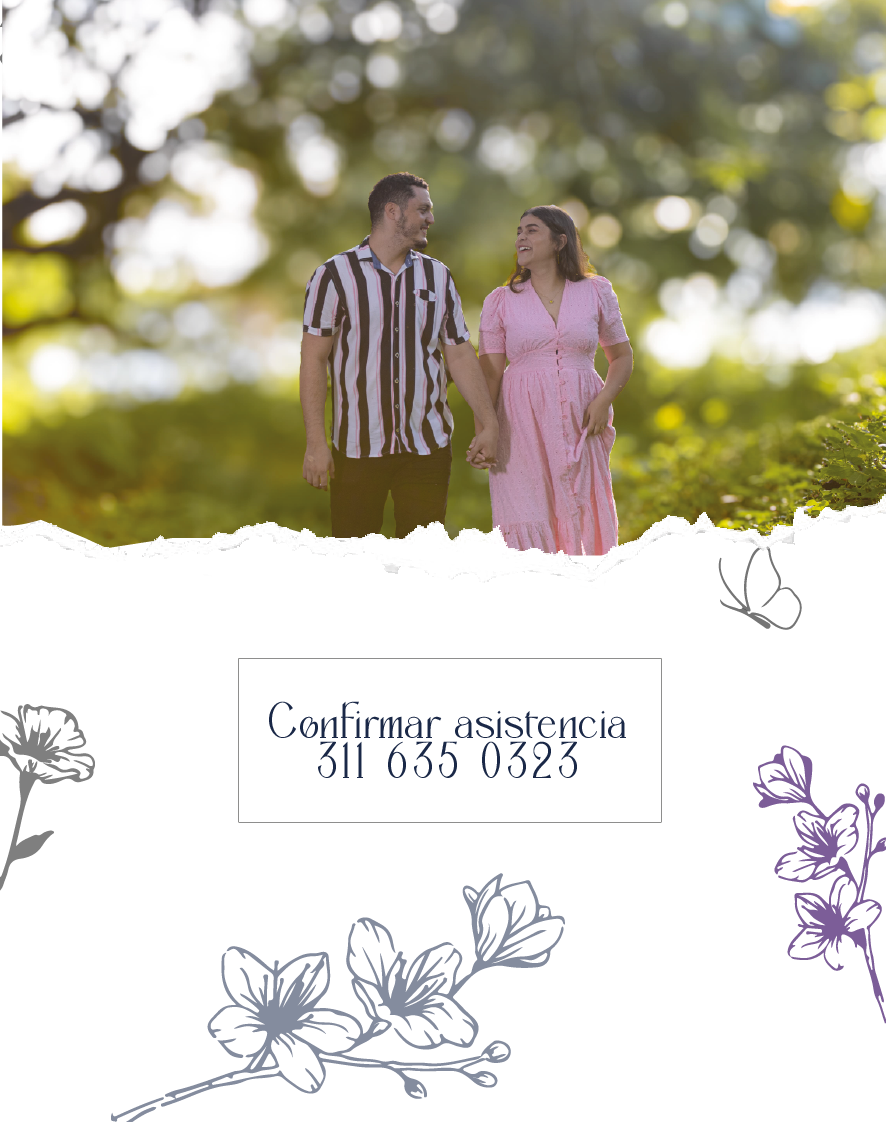
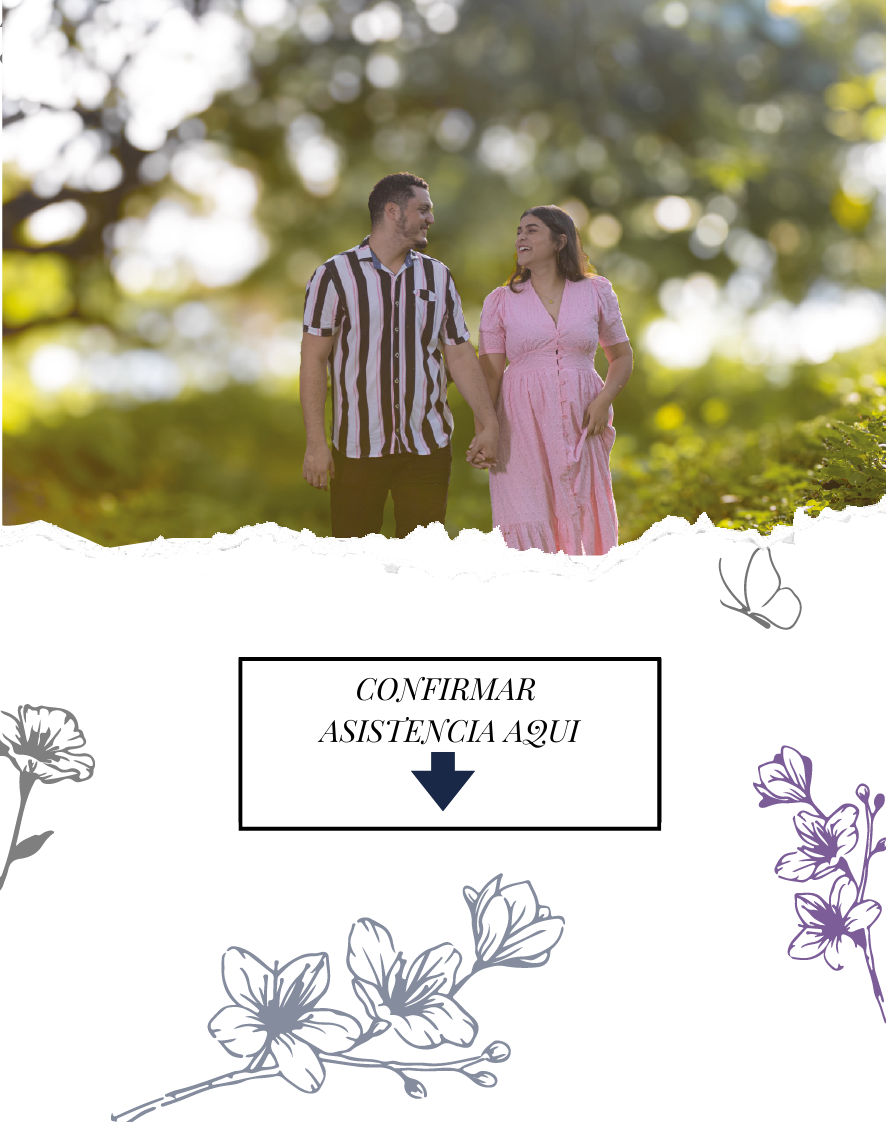
Add whatsapp

Changed region(s): [[0.2438, 0.5615, 0.7619, 0.7487]]

diff --git a/app/page.tsx b/app/page.tsx
@@ -123,7 +123,9 @@ export default function Home() {
       </section>
       <div className='max-w-screen'>
       <section className="flex flex-col justify-between items-center">
-        <img className='h-auto my-10' src="/assets/asistencia.png" alt="" />
+        <a href="https://wa.me/573026482131">
+          <img className='h-auto my-10' src="/assets/asistencia.png" alt="whatsapp" />
+        </a>
       </section>
       </div>
     </>
